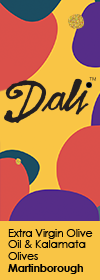
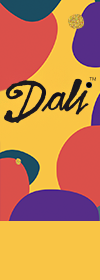
nav text

Changed region(s): [[0.06, 0.8, 0.93, 1.0]]

diff --git a/index.html b/index.html
@@ -9,7 +9,7 @@
 	<title>The Dali Journey</title>
 
 	<link rel="stylesheet" href="scripts/reset.css" type="text/css" />
-	<link rel="stylesheet" href="scripts/style.css?v=4" type="text/css" />
+	<link rel="stylesheet" href="scripts/style.css?v=5" type="text/css" />
 	<link rel="stylesheet" href="scripts/jquery.bxslider.css" type="text/css" />
 
 	<script src="http://ajax.googleapis.com/ajax/libs/jquery/1.8.2/jquery.min.js"></script>
@@ -60,7 +60,7 @@
 <div id="container">
 
 	<div id="menuWrapper">
-		<div id="menuLogo"><a href="#welcome" class="panel"><img src="pics/nav_img.png" alt="Dali" style="width:100%;"></a></div>
+		<div id="menuLogo"><a href="#welcome" class="panel"><img src="pics/nav_img.png" alt="Dali" style="width:100%;"><span class="nav_text">Extra Virgin Olive <br> Oil & Kalamata <br>Olives <br> <b>Martinborough</b></span></a></div>
 		<div id="menu" class="panel"><ul>
 			<li><a href="#ourStory" class="panel">essential to taste</a></li>
 			<li><a href="#whyDali" class="panel">super premium</a></li>
@@ -96,7 +96,7 @@
 				<div class="overflow-container">				
 					<img src="pics/mediterranean.png" style="margin-top:-100px;">
 					<div class="title"><h1>essential to taste</h1></div>
-					<div class="left"><img src="pics/bicycle.png"/><img src="pics/wairarapa.png" class="nofullwidth" style="margin-top:50px; margin-left:50px;"></div>
+					<div class="left"><img src="pics/bicycle.png"/><img src="pics/wairarapa.png" class="nofullwidth" style="margin-bottom: 25px; margin-top:25px; margin-left:50px;"></div>
 					<div class="right overflow-scroll">
 						<p>Kia ora. Welcome to great oil created from local living olives...</p>
 						<ul class="bullet">

diff --git a/scripts/style.css b/scripts/style.css
@@ -6,7 +6,7 @@ a, a:hover, a:visited, a:active {color:inherit;text-decoration:none;z-index: 100
 p {font-size: 1em;line-height: 1.2; letter-spacing: 0.1em;margin: 10px 25px;}
 
 #menuWrapper {z-index: 1000;width: 120px;left: 65px; top: 0;position: fixed;color: #1D1D1D;}
-#menuLogo {height: 335px;background-color: #FDC400;}
+#menuLogo {height: 335px;background-color: #FDC400; position: relative;}
 #menuLogo h1 {text-transform:uppercase;font-weight:600;font-size:1.1em;line-height:1.2;	margin-top:25px;}
 #menu li {width:90px;list-style:none;margin:10px 0 10px;background-color:#ffffff;text-transform:uppercase;font-size:0.9em;line-height:1.2;padding:5px 15px 2px;}
 
@@ -92,7 +92,21 @@ b {font-weight: bold;}
 	font-weight: 700;
 }
 
+.nav_text {
+    position: absolute;
+    left: 0;
+    width: calc(100% - 20px);
+    bottom: 0px;
+    padding: 10px;
+    font-weight: 400;
+}
+
 @media (max-width: 736px) {
+	.nav_text {
+	    font-size: 10px;
+	    line-height: 12px;
+    	padding: 5px 10px;
+	}
 	#menuWrapper {
 	    left: 0;
 	    width: 100px;
